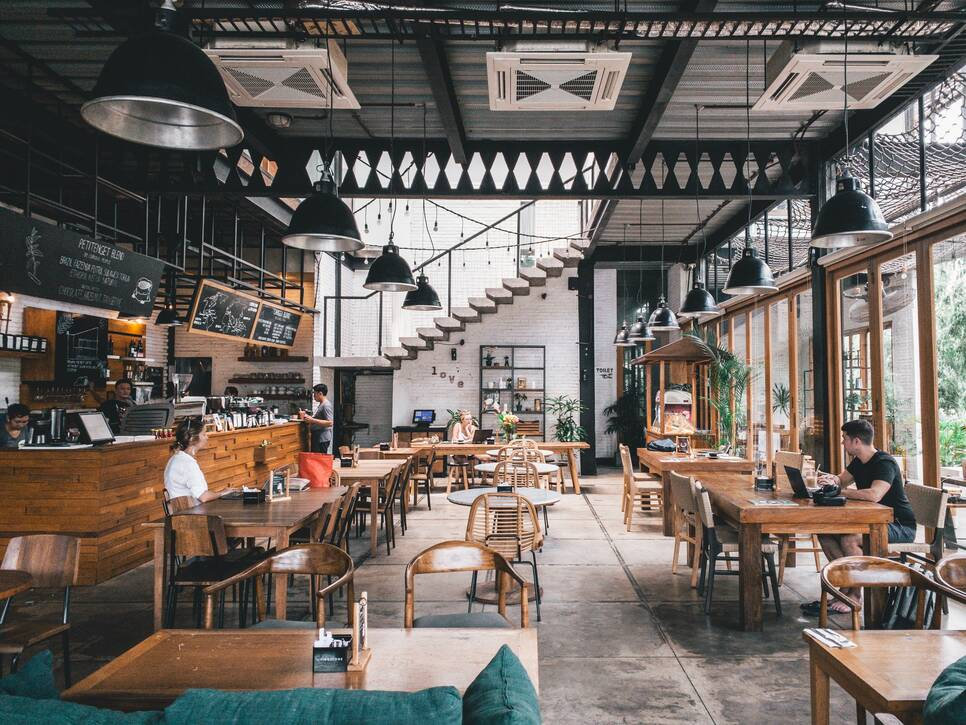
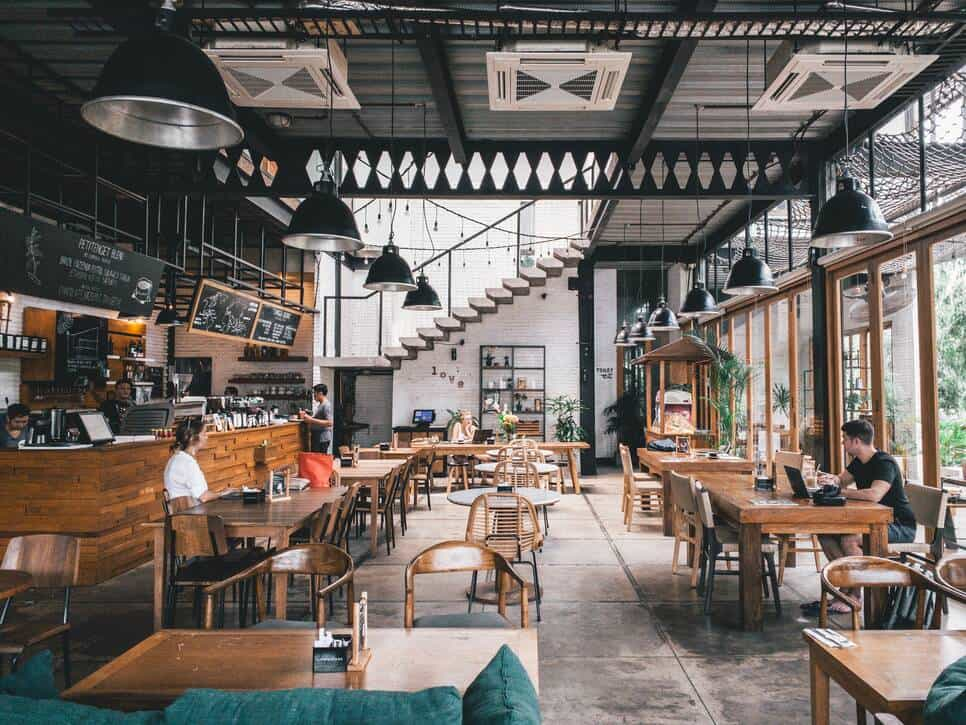
link all pages & compress images

diff --git a/src/index.js b/src/index.js
@@ -1,29 +1,33 @@
 import "./style.css";
 import { renderHome } from "./home";
 import { renderMenu } from "./menu";
+import { renderAboutUs } from "./about-us";
+import { renderContactUs } from "./contact-us";
 
-console.log("HELLO! World");
+const home = document.querySelector("#home");
+const logo = document.querySelector("#logo");
+const menu = document.querySelector("#menu");
+const about = document.querySelector("#about-us");
+const contact = document.querySelector("#contact-us");
 
-const home=document.querySelector("#home");
-const logo=document.querySelector("#logo");
-const menu=document.querySelector("#menu");
-
-
-home.addEventListener('click',()=>{
-    home.style.textDecoration = 'none';
-    menu.style.textDecoration = 'none';
-    home.style.textDecoration = 'underline';
-    renderHome();
+home.addEventListener("click", () => {
+  renderHome();
 });
-logo.addEventListener('click',()=>{
-    menu.style.textDecoration = 'none';
-    home.style.textDecoration = 'none';
-    home.style.textDecoration = 'underline';
-    renderHome();
+
+logo.addEventListener("click", () => {
+  renderHome();
 });
-menu.addEventListener('click',()=>{
-    home.style.textDecoration = 'none';
-    menu.style.textDecoration = 'underline';
-    renderMenu();
+
+menu.addEventListener("click", () => {
+  renderMenu();
 });
+
+about.addEventListener("click", () => {
+  renderAboutUs();
+});
+
+contact.addEventListener("click", () => {
+  renderContactUs();
+});
+
 renderHome();

diff --git a/src/reset.js b/src/reset.js
@@ -1,0 +1,14 @@
+export function reset() {
+  const home = document.querySelector("#home");
+  const menu = document.querySelector("#menu");
+  const about = document.querySelector("#about-us");
+  const contact = document.querySelector("#contact-us");
+
+  home.style.textDecoration = "none";
+  menu.style.textDecoration = "none";
+  about.style.textDecoration = "none";
+  contact.style.textDecoration = "none";
+
+  const container = document.querySelector("#container");
+  container.innerHTML = "";
+}

diff --git a/src/menu.js b/src/menu.js
@@ -1,8 +1,9 @@
-export function renderMenu() {
-    // menu 
-    // const home = document.querySelector("#home");
-    // home.style.textDecoration = 'underline';
+import { reset } from "./reset";
 
-    const container = document.querySelector("#container");
-    container.innerHTML="";
+export function renderMenu() {
+  reset();
+
+  // menu
+  const menu = document.querySelector("#menu");
+  menu.style.textDecoration = "underline";
 }

diff --git a/src/home.js b/src/home.js
@@ -1,12 +1,12 @@
 import "./home.css";
+import { reset } from "./reset";
 
 export function renderHome() {
+  reset();
+
   // home
   const home = document.querySelector("#home");
   home.style.textDecoration = "underline";
-
-  const container = document.querySelector("#container");
-  container.innerHTML = "";
 
   // create tag line segment
   const tagLine = document.createElement("div");

diff --git a/src/contact-us.js b/src/contact-us.js
@@ -1,0 +1,9 @@
+import { reset } from "./reset";
+
+export function renderContactUs() {
+  reset();
+
+  // contact us
+  const contact = document.querySelector("#contact-us");
+  contact.style.textDecoration = "underline";
+}

diff --git a/src/about-us.js b/src/about-us.js
@@ -1,0 +1,9 @@
+import { reset } from "./reset";
+
+export function renderAboutUs() {
+  reset();
+
+  // about us
+  const about = document.querySelector("#about-us");
+  about.style.textDecoration = "underline";
+}
